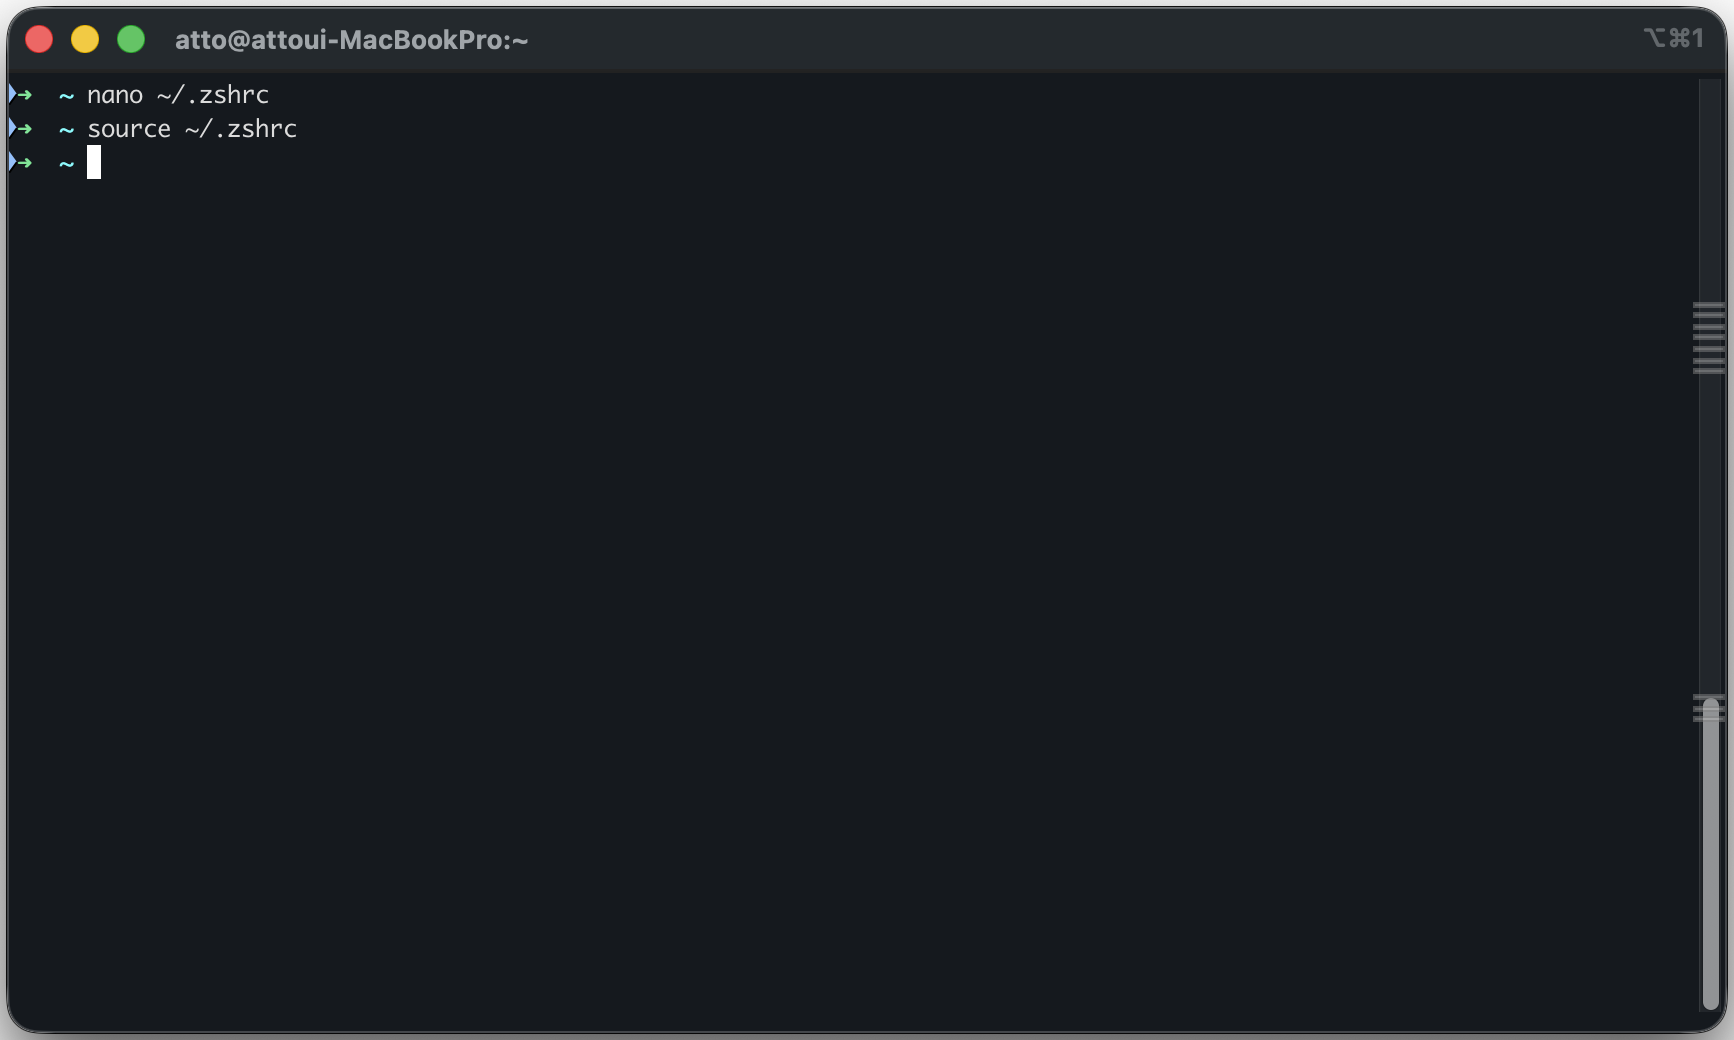
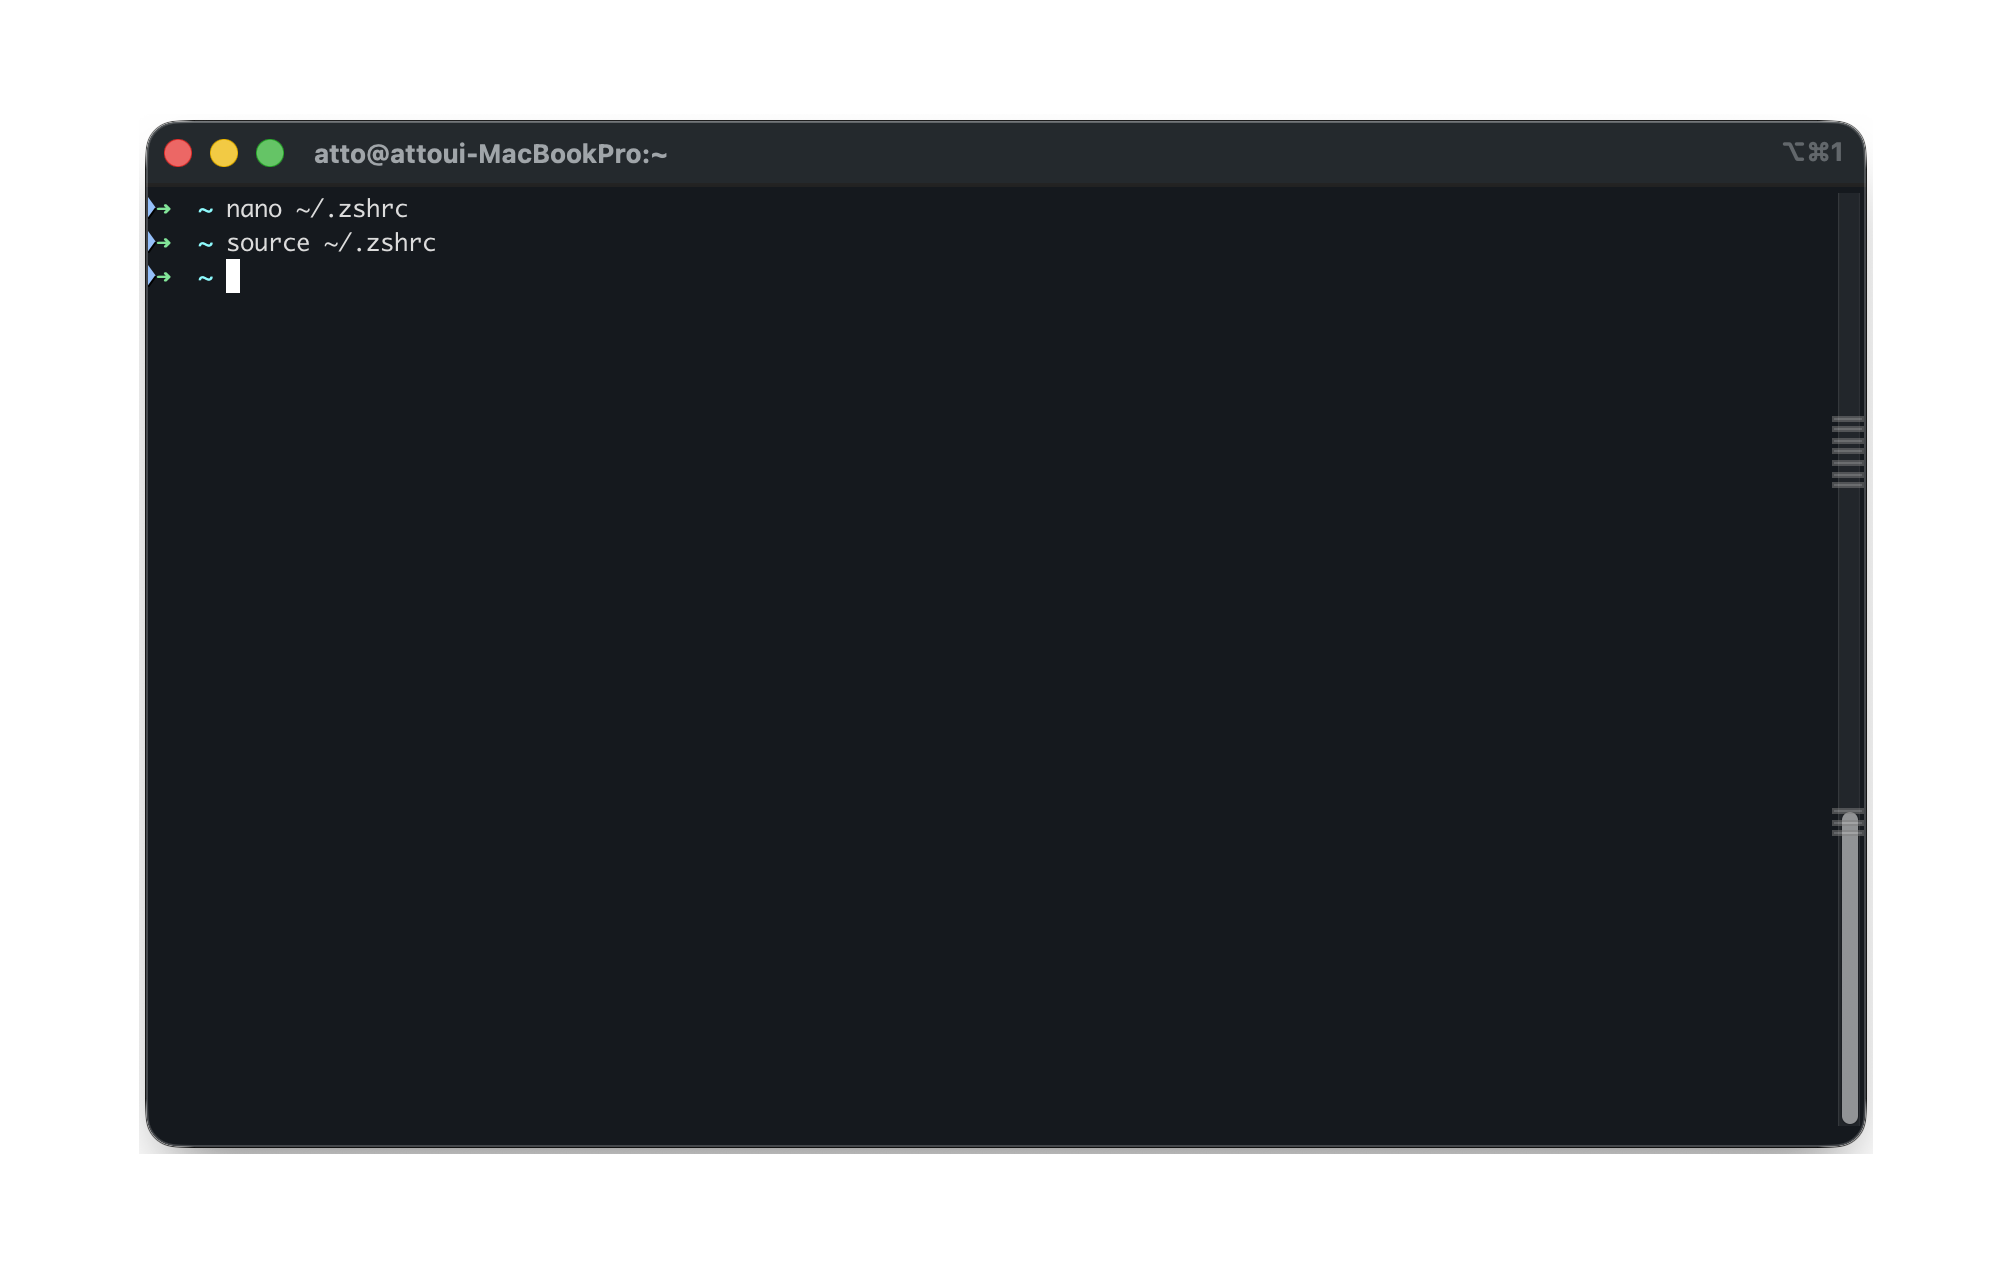
fix(guide): tighten aside spacing, rephrase Codex warning note, pad step-2 screenshots
Match outer whitespace on the step 2-1/2-2 terminal screenshots to the
step 3 status screenshot, and reword the WebSocket warning aside in a
more business-appropriate tone (KO/EN).

diff --git a/web/default/public/guide.css b/web/default/public/guide.css
@@ -166,7 +166,7 @@
 /* 경고/필수 사항은 아니지만 본문과 구분은 되었으면 하는 부가 설명 — 배경 없이 왼쪽 라인만, 본문보다 살짝 작게 */
 .guide-step-body p.guide-aside {
   border-left: 2px solid #4b5568; padding-left: 12px;
-  margin: 10px 0; font-size: 11.5px; line-height: 1.6; color: #8a94a6;
+  margin: 5px 0; font-size: 11.5px; line-height: 1.6; color: #8a94a6;
 }
 
 /* 언어(번역)에 따라 위치가 흔들리지 않도록, 문장에서 링크를 분리해 고정된 버튼으로 노출 */
